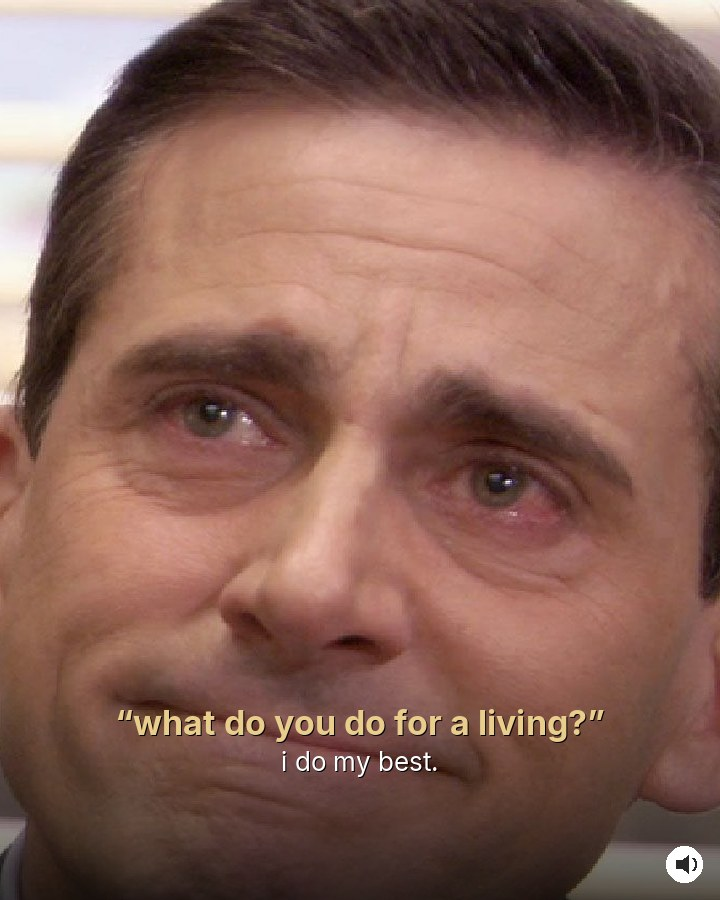
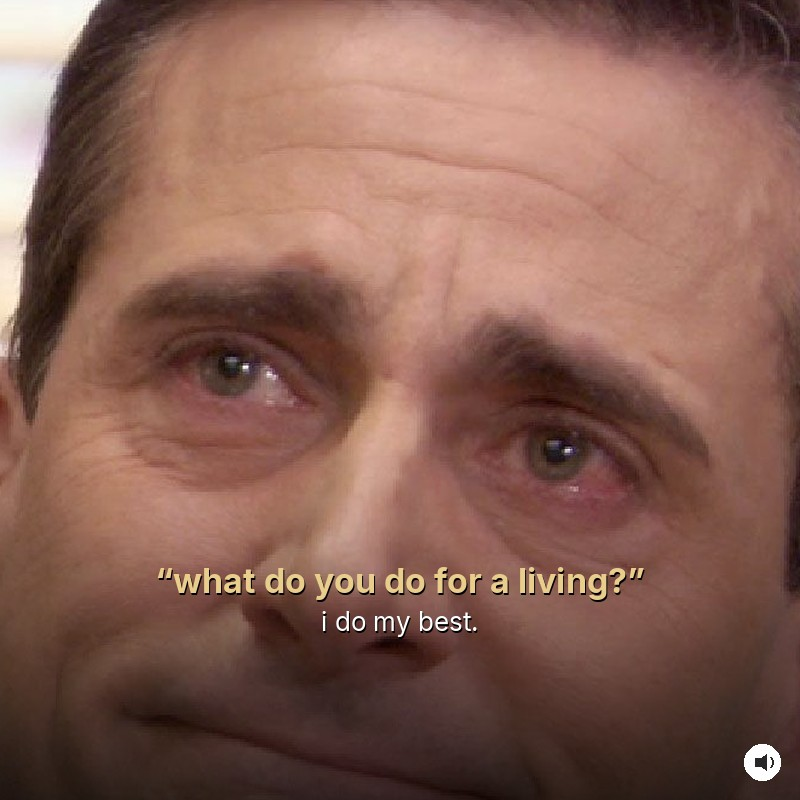
Keep the i-do-my-best caption visible in the gallery tiles.

diff --git a/keep-going.html b/keep-going.html
@@ -24,7 +24,7 @@
     <a class="back" href="index.html">← Petex47</a>
     <h1>images on my computer in a folder named "keep going" inspired by jack friks</h1>
     <div class="gallery full" style="margin-top:32px">
-      <img src="assets/i-do-my-best.jpg" alt="Michael Scott: what do you do for a living? i do my best." />
+      <img src="assets/i-do-my-best.jpg" alt="Michael Scott: what do you do for a living? i do my best." style="object-position: center 70%" />
       <img src="assets/no-no-keep-going.jpg" alt="Man filming on his phone with the caption no no keep going" />
       <img src="assets/image-111.png" alt="I'm tired too brother but we have dreams to chase" />
       <img src="assets/image-106.png" alt="Drawing of a man injecting a giant syringe labeled HOPE" />

diff --git a/index.html b/index.html
@@ -82,7 +82,7 @@
     <section class="section">
       <h2>images on my computer in a folder named "keep going" inspired by jack friks</h2>
       <div class="gallery">
-        <img src="assets/i-do-my-best.jpg" alt="Michael Scott: what do you do for a living? i do my best." />
+        <img src="assets/i-do-my-best.jpg" alt="Michael Scott: what do you do for a living? i do my best." style="object-position: center 70%" />
         <img src="assets/no-no-keep-going.jpg" alt="Man filming on his phone with the caption no no keep going" />
         <img src="assets/image-111.png" alt="I'm tired too brother but we have dreams to chase" />
         <img src="assets/image-106.png" alt="Drawing of a man injecting a giant syringe labeled HOPE" />
